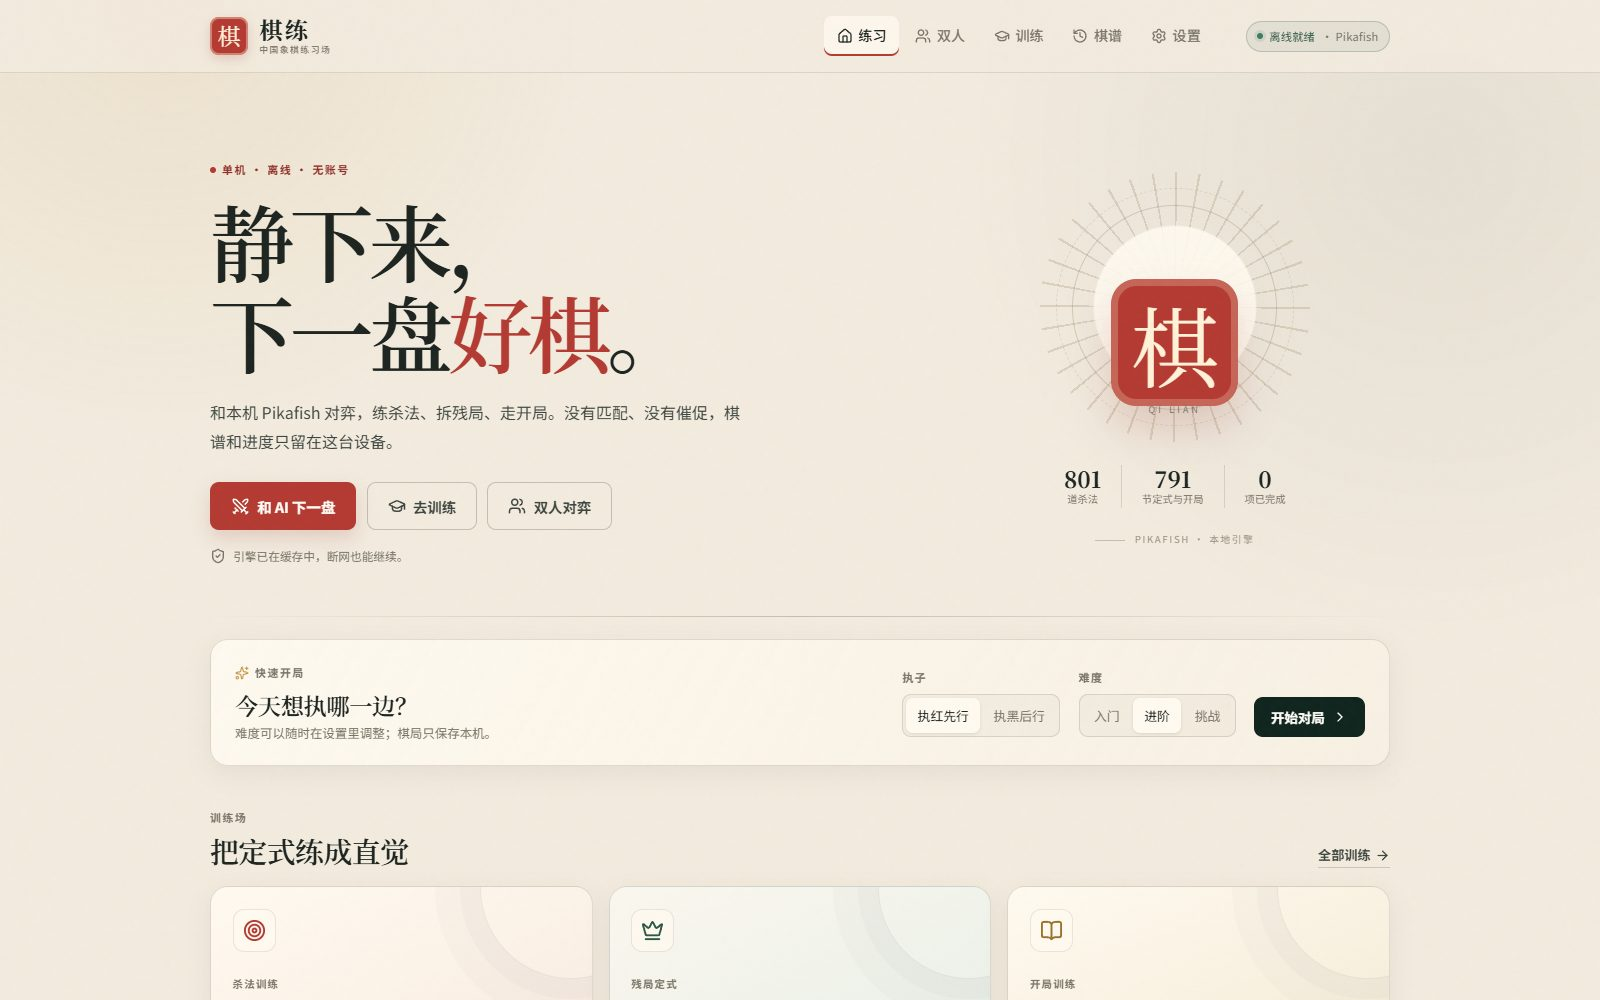
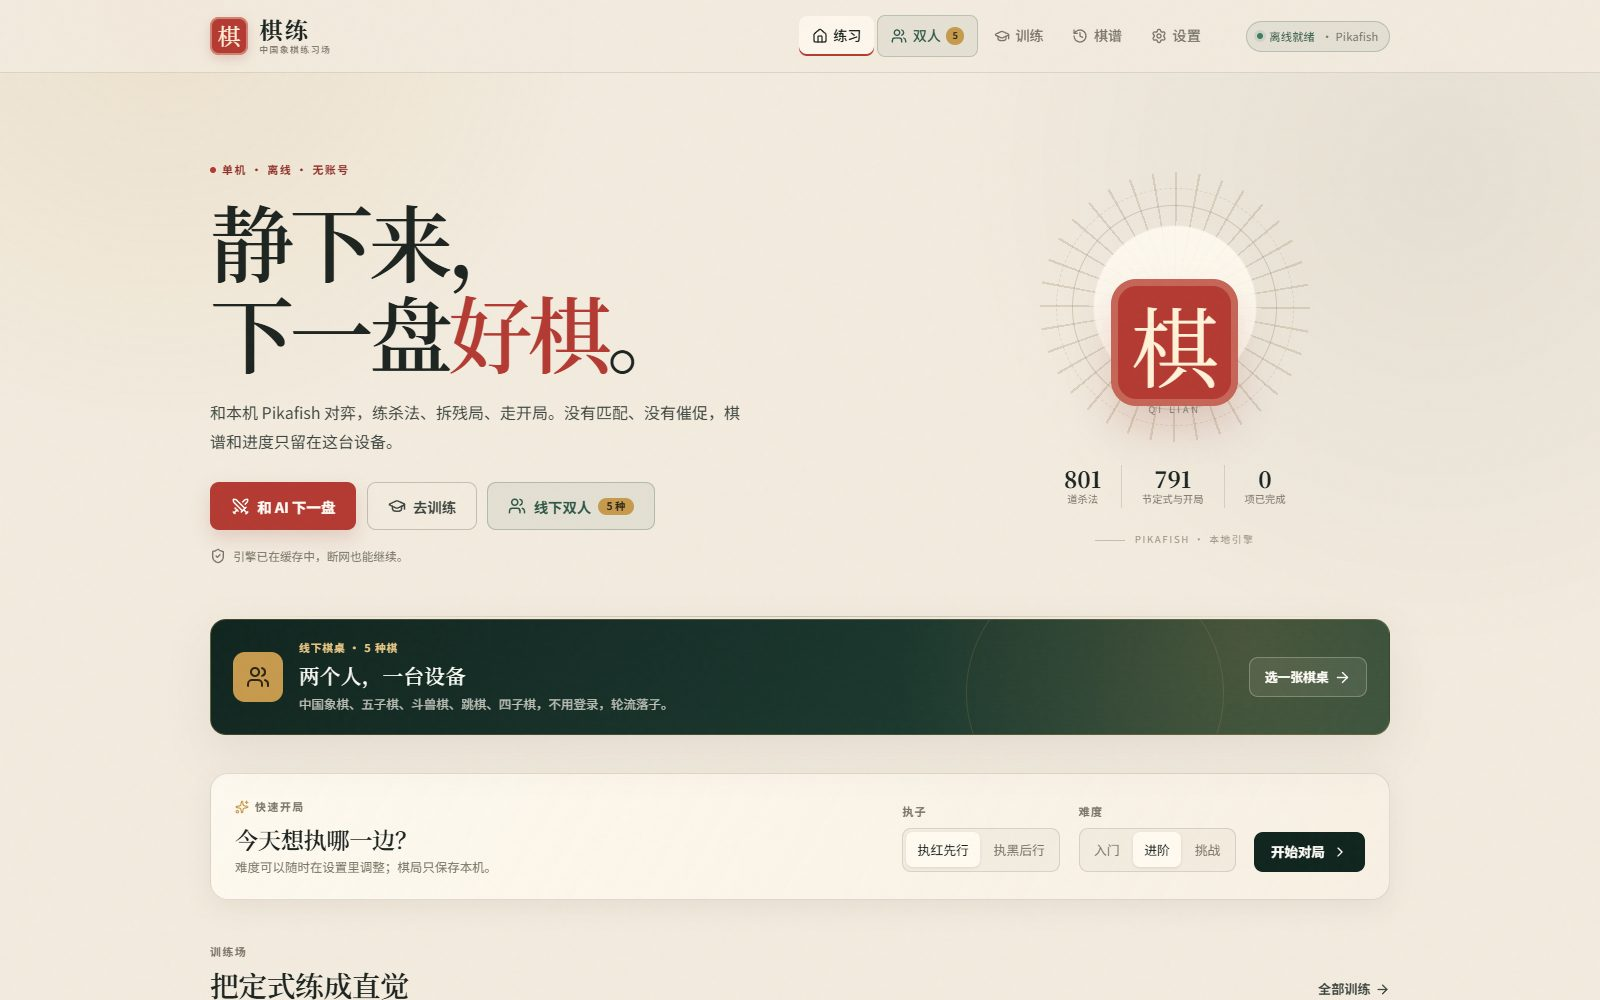
feat: make offline two-player entry prominent

diff --git a/apps/web/src/styles/global.css b/apps/web/src/styles/global.css
@@ -4964,3 +4964,236 @@ p {
 .jungle-cell.is-capture .jungle-piece {
   box-shadow: 0 0 0 3px #2f7a53, 0 4px 8px -4px rgba(24, 55, 39, 0.5);
 }
+
+/* ---------- Prominent local two-player entry ---------- */
+
+.btn-local {
+  border: 1px solid rgba(45, 86, 70, 0.28);
+  background: rgba(45, 86, 70, 0.08);
+  color: var(--green-3);
+}
+
+.btn-local:hover {
+  border-color: var(--green-3);
+  background: var(--green-3);
+  color: var(--white);
+}
+
+.btn-local-badge {
+  display: inline-flex;
+  align-items: center;
+  justify-content: center;
+  min-width: 2.2rem;
+  padding: 0.08rem 0.38rem;
+  border-radius: 999px;
+  background: var(--gold);
+  color: #2b2414;
+  font-size: 0.65rem;
+  font-weight: 700;
+  line-height: 1.4;
+}
+
+.nav-link-local {
+  border: 1px solid rgba(45, 86, 70, 0.22);
+  background: rgba(45, 86, 70, 0.07);
+  color: var(--green-3);
+}
+
+.nav-link-local:hover,
+.nav-link-local.is-active {
+  background: var(--green-3);
+  color: var(--white);
+  box-shadow: none;
+}
+
+.nav-local-badge {
+  display: inline-grid;
+  min-width: 1.1rem;
+  height: 1.1rem;
+  place-items: center;
+  border-radius: 50%;
+  background: var(--gold);
+  color: #2b2414;
+  font-size: 0.58rem;
+  font-weight: 700;
+  line-height: 1;
+}
+
+.bottom-link-local {
+  color: var(--green-3);
+  background: rgba(45, 86, 70, 0.07);
+}
+
+.bottom-link-local.is-active {
+  color: var(--white);
+  background: var(--green-3);
+}
+
+.home-local-banner {
+  position: relative;
+  display: flex;
+  align-items: center;
+  gap: 1rem;
+  overflow: hidden;
+  margin: 0.15rem 0 2.4rem;
+  padding: 1.2rem 1.4rem;
+  border: 1px solid rgba(198, 154, 77, 0.26);
+  border-radius: 16px;
+  background:
+    radial-gradient(circle at 88% 20%, rgba(198, 154, 77, 0.24), transparent 22rem),
+    linear-gradient(135deg, var(--green) 0%, var(--green-2) 72%, #294a3b 100%);
+  color: var(--white);
+  text-decoration: none;
+  box-shadow: var(--shadow);
+}
+
+.home-local-banner::after {
+  position: absolute;
+  right: 14%;
+  bottom: -5.5rem;
+  width: 16rem;
+  height: 16rem;
+  border: 1px solid rgba(198, 154, 77, 0.18);
+  border-radius: 50%;
+  content: "";
+}
+
+.home-local-mark {
+  display: grid;
+  flex: 0 0 auto;
+  width: 3.1rem;
+  height: 3.1rem;
+  place-items: center;
+  border-radius: 12px;
+  background: var(--gold);
+  color: #2b2414;
+}
+
+.home-local-copy {
+  display: flex;
+  min-width: 0;
+  flex-direction: column;
+  gap: 0.1rem;
+  position: relative;
+  z-index: 1;
+}
+
+.home-local-eyebrow {
+  color: #e8c684;
+  font-size: 0.67rem;
+  font-weight: 600;
+  letter-spacing: 0.09em;
+}
+
+.home-local-copy strong {
+  font-family: var(--serif);
+  font-size: 1.28rem;
+  font-weight: 500;
+  letter-spacing: 0.02em;
+}
+
+.home-local-copy small {
+  color: rgba(255, 250, 240, 0.72);
+  font-size: 0.78rem;
+}
+
+.home-local-cta {
+  display: inline-flex;
+  flex: 0 0 auto;
+  align-items: center;
+  gap: 0.35rem;
+  margin-left: auto;
+  padding: 0.55rem 0.9rem;
+  border: 1px solid rgba(255, 250, 240, 0.26);
+  border-radius: 9px;
+  background: rgba(255, 250, 240, 0.08);
+  color: var(--white);
+  font-size: 0.8rem;
+  font-weight: 600;
+  position: relative;
+  z-index: 1;
+}
+
+.home-local-banner:hover .home-local-cta {
+  background: var(--gold);
+  border-color: var(--gold);
+  color: #2b2414;
+}
+
+.mobile-lobby-local {
+  display: flex;
+  align-items: center;
+  gap: 0.7rem;
+  margin-top: 0.8rem;
+  padding: 0.78rem 0.9rem;
+  border: 1px solid rgba(45, 86, 70, 0.24);
+  border-radius: 13px;
+  background: var(--surface);
+  color: var(--ink);
+  text-decoration: none;
+}
+
+.mobile-lobby-local-icon {
+  display: grid;
+  flex: 0 0 auto;
+  width: 2.15rem;
+  height: 2.15rem;
+  place-items: center;
+  border-radius: 9px;
+  background: rgba(45, 86, 70, 0.12);
+  color: var(--green-3);
+}
+
+.mobile-lobby-local-copy {
+  display: flex;
+  min-width: 0;
+  flex: 1;
+  flex-direction: column;
+  line-height: 1.35;
+}
+
+.mobile-lobby-local-copy strong {
+  font-size: 0.86rem;
+}
+
+.mobile-lobby-local-copy small {
+  color: var(--muted);
+  font-size: 0.7rem;
+}
+
+.mobile-lobby-local > svg {
+  flex: 0 0 auto;
+  color: var(--green-3);
+}
+
+@media (max-width: 560px) {
+  .bottom-link {
+    font-size: 0.57rem;
+  }
+
+  .home-local-banner {
+    flex-wrap: wrap;
+    gap: 0.7rem;
+    padding: 1rem;
+    margin-bottom: 1.6rem;
+  }
+
+  .home-local-mark {
+    width: 2.6rem;
+    height: 2.6rem;
+  }
+
+  .home-local-copy strong {
+    font-size: 1.15rem;
+  }
+
+  .home-local-copy small {
+    font-size: 0.74rem;
+  }
+
+  .home-local-cta {
+    width: 100%;
+    justify-content: space-between;
+    margin-left: 0;
+  }
+}

diff --git a/apps/web/src/components/Layout.tsx b/apps/web/src/components/Layout.tsx
@@ -13,6 +13,7 @@ const desktopNav = [
 const mobileNav = [
   { to: '/', label: '首页', icon: Home, end: true },
   { to: '/play', label: '对弈', icon: Swords },
+  { to: '/local', label: '双人', icon: Users },
   { to: '/train', label: '训练', icon: GraduationCap },
   { to: '/history', label: '棋谱', icon: History },
   { to: '/settings', label: '设置', icon: Settings },
@@ -60,10 +61,11 @@ export function Layout() {
                   key={item.to}
                   to={item.to}
                   end={item.end}
-                  className={({ isActive }) => `nav-link${isActive ? ' is-active' : ''}`}
+                  className={({ isActive }) => `nav-link${isActive ? ' is-active' : ''}${item.to === '/local' ? ' nav-link-local' : ''}`}
                 >
                   <Icon size={16} aria-hidden="true" />
                   {item.label}
+                  {item.to === '/local' && <span className="nav-local-badge" aria-hidden="true">5</span>}
                 </NavLink>
               );
             })}
@@ -85,7 +87,7 @@ export function Layout() {
               key={item.to}
               to={item.to}
               end={item.end}
-              className={({ isActive }) => `bottom-link${isActive ? ' is-active' : ''}`}
+              className={({ isActive }) => `bottom-link${isActive ? ' is-active' : ''}${item.to === '/local' ? ' bottom-link-local' : ''}`}
             >
               <Icon size={20} aria-hidden="true" />
               <span>{item.label}</span>

diff --git a/apps/web/src/pages/HomePage.tsx b/apps/web/src/pages/HomePage.tsx
@@ -148,9 +148,10 @@ export function HomePage() {
               <GraduationCap size={18} aria-hidden="true" />
               去训练
             </Link>
-            <Link to="/local" className="btn btn-ghost btn-large">
+            <Link to="/local" className="btn btn-local btn-large">
               <Users size={18} aria-hidden="true" />
-              双人对弈
+              线下双人
+              <span className="btn-local-badge">5 种</span>
             </Link>
           </div>
 
@@ -190,6 +191,21 @@ export function HomePage() {
           </div>
         </div>
       </section>
+
+      <Link to="/local" className="home-local-banner">
+        <span className="home-local-mark" aria-hidden="true">
+          <Users size={24} />
+        </span>
+        <span className="home-local-copy">
+          <span className="home-local-eyebrow">线下棋桌 · 5 种棋</span>
+          <strong>两个人，一台设备</strong>
+          <small>中国象棋、五子棋、斗兽棋、跳棋、四子棋，不用登录，轮流落子。</small>
+        </span>
+        <span className="home-local-cta">
+          选一张棋桌
+          <ArrowRight size={17} aria-hidden="true" />
+        </span>
+      </Link>
 
       {!engineReady && (
         <section className="section">

diff --git a/tests/e2e/app.spec.ts b/tests/e2e/app.spec.ts
@@ -12,6 +12,14 @@ test('home loads with the offline engine ready', async ({ page }) => {
   await expect(page.locator('.desktop-nav')).toBeVisible();
 });
 
+test('home surfaces the offline two-player entry', async ({ page }) => {
+  await page.goto('/');
+  await expect(page.locator('.home-local-banner')).toBeVisible();
+  await expect(page.locator('.home-local-banner')).toContainText('两个人，一台设备');
+  await page.locator('.home-local-banner').click();
+  await expect(page).toHaveURL(/\/local$/);
+  await expect(page.locator('.local-game-card')).toHaveCount(5);
+});
 test('starts a game, gets an AI reply, and restores the game', async ({ page }) => {
   await waitForOfflineReady(page);
   await page.getByRole('button', { name: /和 AI 下一盘/ }).click();

diff --git a/apps/web/src/components/MobileGameLobby.tsx b/apps/web/src/components/MobileGameLobby.tsx
@@ -158,6 +158,17 @@ export function MobileGameLobby({
         )}
       </div>
 
+      <Link to="/local" className="mobile-lobby-local">
+        <span className="mobile-lobby-local-icon" aria-hidden="true">
+          <Users size={18} />
+        </span>
+        <span className="mobile-lobby-local-copy">
+          <strong>线下双人</strong>
+          <small>5 张棋桌 · 同一台设备</small>
+        </span>
+        <ArrowRight size={17} aria-hidden="true" />
+      </Link>
+
       <div className="mobile-lobby-foot">
         <span>
           <ShieldCheck size={14} aria-hidden="true" />
